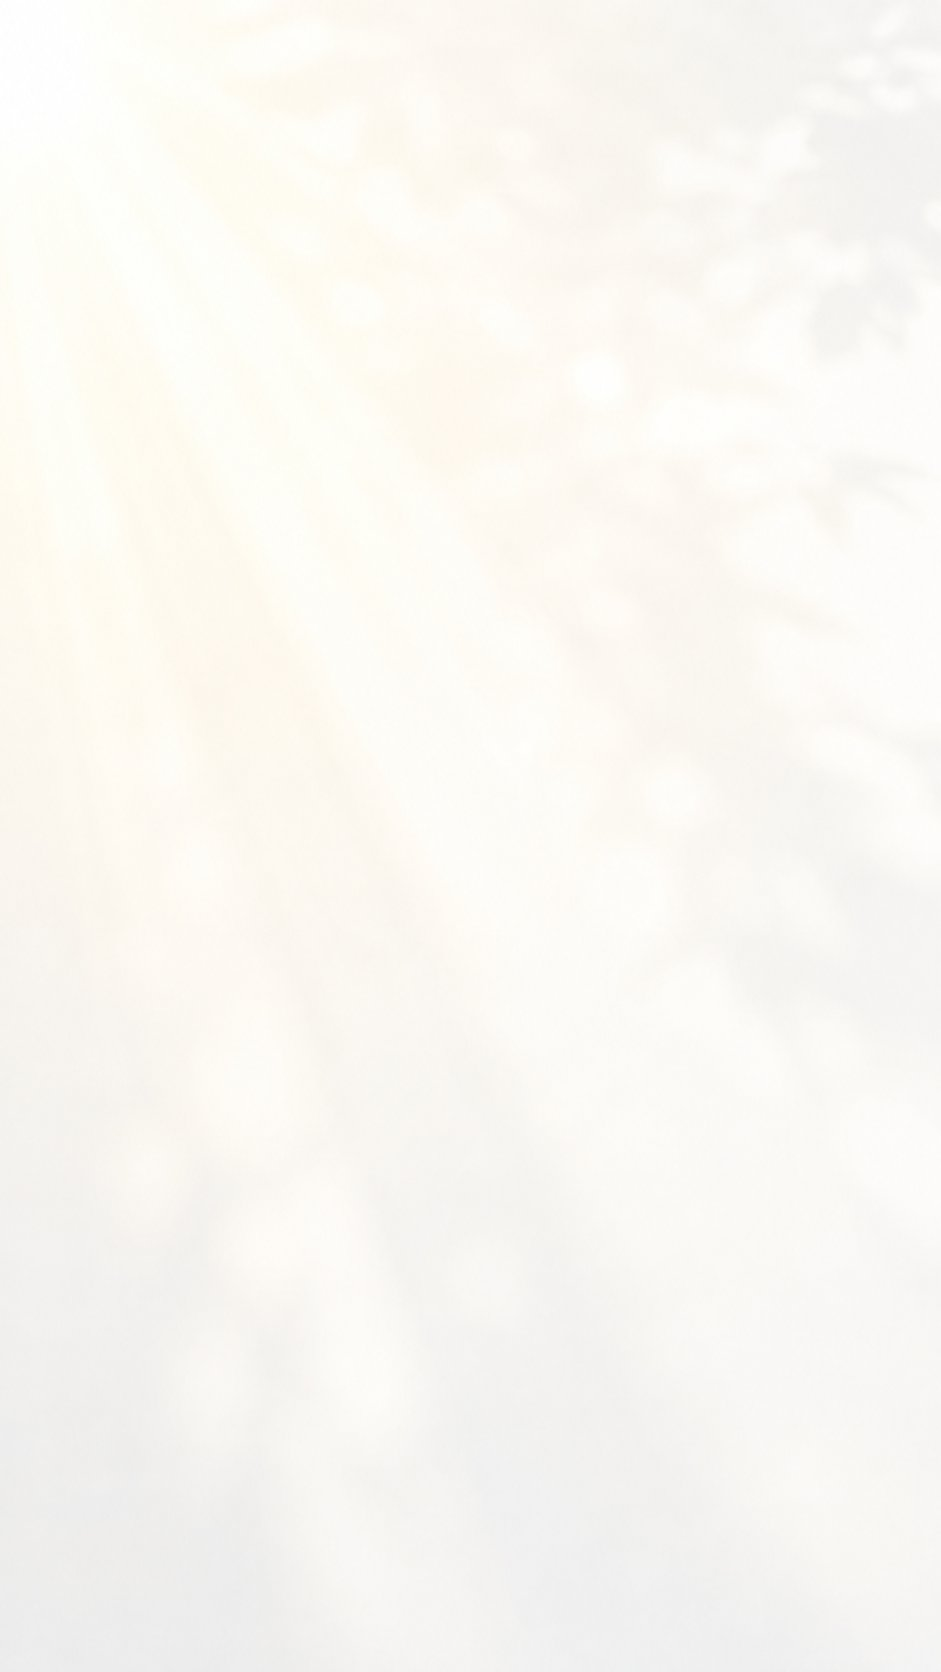
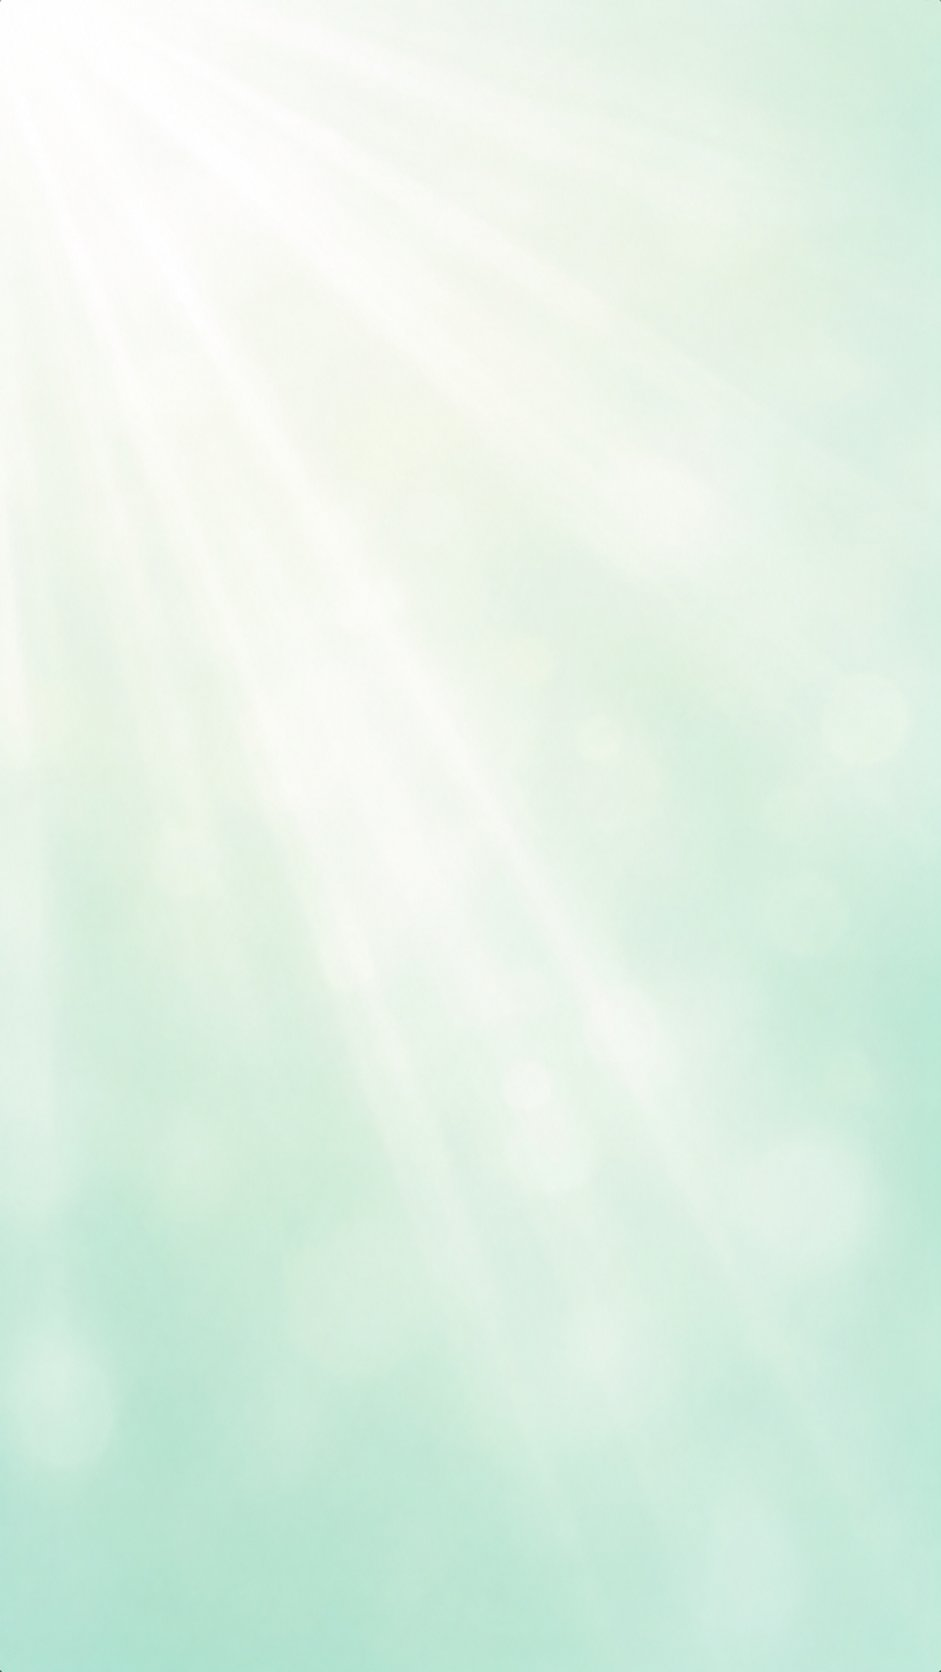
Add files via upload

diff --git a/app.js b/app.js
@@ -15,6 +15,7 @@ const sheet = document.getElementById("pocketSheet");
 const overlay = document.getElementById("sheetOverlay");
 const pocketList = document.getElementById("pocketList");
 const pocketEmpty = document.getElementById("pocketEmpty");
+const undoToast = document.getElementById("undoToast");
 const splash = document.getElementById("splash");
 const micHint = document.getElementById("micHint");
 
@@ -127,6 +128,7 @@ function openPocket() {
 }
 
 function closePocket() {
+  finalizePending(); // 開いたままにしてある取り消し猶予は、閉じたら確定させる
   sheet.classList.remove("open");
   overlay.classList.remove("open");
   sheet.setAttribute("aria-hidden", "true");
@@ -134,28 +136,115 @@ function closePocket() {
 
 function renderPocket(items) {
   const list = Array.isArray(items) ? items : [];
+  pocketList.innerHTML = "";
 
-  try {
-    pocketList.innerHTML = list.map(i => {
-      const dateLabel = i && i.scheduledDate
-        ? `<span class="pocketDate">${escapeHtml(formatDate(i.scheduledDate))}</span>`
-        : "";
-      const body = escapeHtml(i && i.content);
-      return `<li>${dateLabel}<span>${body}</span></li>`;
-    }).join("");
-  } catch (err) {
-    // 1件おかしなデータがあっても、全部が消えてしまわないようにする
-    pocketList.innerHTML = "";
-  }
+  list.forEach((i) => {
+    if (!i || !i.id) return;
+    const li = document.createElement("li");
+    li.dataset.id = i.id;
+
+    if (i.scheduledDate) {
+      const dateSpan = document.createElement("span");
+      dateSpan.className = "pocketDate";
+      dateSpan.textContent = formatDate(i.scheduledDate);
+      li.appendChild(dateSpan);
+    }
+
+    const textSpan = document.createElement("span");
+    textSpan.textContent = i.content == null ? "" : String(i.content);
+    li.appendChild(textSpan);
+
+    attachSwipe(li, { id: i.id, content: textSpan.textContent });
+    pocketList.appendChild(li);
+  });
 
   pocketEmpty.classList.toggle("visible", pocketList.children.length === 0);
 }
 
-// 文字列以外(数字・空・null)が来ても止まらないようにしておく
-function escapeHtml(s) {
-  return String(s == null ? "" : s)
-    .replace(/[&<>"']/g, c => ({"&":"&amp;","<":"&lt;",">":"&gt;",'"':"&quot;","'":"&#39;"}[c]));
+// 上スワイプで完了。「預ける」と同じく、言葉ではなく動きで手放す
+let pendingComplete = null; // { item, li, timer }
+const SWIPE_THRESHOLD = -60;
+
+function attachSwipe(li, item) {
+  let startY = null;
+  let deltaY = 0;
+
+  li.addEventListener("touchstart", (e) => {
+    startY = e.touches[0].clientY;
+    li.style.transition = "none";
+  }, { passive: true });
+
+  li.addEventListener("touchmove", (e) => {
+    if (startY === null) return;
+    deltaY = e.touches[0].clientY - startY;
+    if (deltaY < 0) {
+      li.style.transform = `translateY(${deltaY}px)`;
+      li.style.opacity = String(Math.max(0, 1 + deltaY / 120));
+    }
+  }, { passive: true });
+
+  li.addEventListener("touchend", () => {
+    li.style.transition = "transform 0.25s ease, opacity 0.25s ease";
+    if (deltaY < SWIPE_THRESHOLD) {
+      completeItem(item, li);
+    } else {
+      li.style.transform = "";
+      li.style.opacity = "";
+    }
+    startY = null;
+    deltaY = 0;
+  });
 }
+
+function completeItem(item, li) {
+  finalizePending(); // 前の1件がまだ猶予中なら、先に確定させてから次へ
+
+  li.style.transform = "translateY(-40px)";
+  li.style.opacity = "0";
+  li.style.pointerEvents = "none";
+
+  undoToast.hidden = false;
+  requestAnimationFrame(() => undoToast.classList.add("visible"));
+
+  pendingComplete = {
+    item,
+    li,
+    timer: setTimeout(() => finalizePending(), 4000)
+  };
+}
+
+function finalizePending() {
+  if (!pendingComplete) return;
+  const { item, timer } = pendingComplete;
+  clearTimeout(timer);
+  pendingComplete = null;
+  hideUndoToast();
+
+  fetch(API_URL, {
+    method: "POST",
+    headers: { "Content-Type": "text/plain" },
+    body: JSON.stringify({ action: "complete", id: item.id })
+  }).catch(() => {});
+}
+
+function undoPending() {
+  if (!pendingComplete) return;
+  const { timer, li } = pendingComplete;
+  clearTimeout(timer);
+  li.style.transform = "";
+  li.style.opacity = "";
+  li.style.pointerEvents = "";
+  pendingComplete = null;
+  hideUndoToast();
+}
+
+function hideUndoToast() {
+  undoToast.classList.remove("visible");
+  setTimeout(() => { undoToast.hidden = true; }, 200);
+}
+
+undoToast.addEventListener("click", () => undoPending());
+
 
 if ("serviceWorker" in navigator) {
   window.addEventListener("load", () => {

diff --git a/style.css b/style.css
@@ -226,6 +226,7 @@ button { border: none; background: none; cursor: pointer; font-family: inherit; 
   display: flex;
   align-items: baseline;
   gap: 8px;
+  touch-action: pan-y;
 }
 .pocketDate {
   font-size: 11px;
@@ -241,3 +242,22 @@ button { border: none; background: none; cursor: pointer; font-family: inherit; 
   display: none;
 }
 #pocketEmpty.visible { display: block; }
+
+/* 完了(上スワイプ)直後だけ、ごく短く出す取り消し */
+#undoToast {
+  position: sticky;
+  bottom: 4px;
+  display: block;
+  margin: 12px auto 0;
+  font-size: 12px;
+  color: var(--ink-soft);
+  background: #fff;
+  border-radius: 12px;
+  padding: 6px 14px;
+  box-shadow: 0 2px 10px rgba(0,0,0,0.08);
+  opacity: 0;
+  transform: translateY(6px);
+  transition: opacity 0.2s ease, transform 0.2s ease;
+  pointer-events: none;
+}
+#undoToast.visible { opacity: 1; transform: translateY(0); pointer-events: auto; }

diff --git a/index.html b/index.html
@@ -51,6 +51,7 @@
   <div id="sheetHandle"></div>
   <ul id="pocketList"></ul>
   <p id="pocketEmpty">まだ何もありません</p>
+  <button id="undoToast" hidden>元に戻す</button>
 </section>
 
 <script src="app.js"></script>
